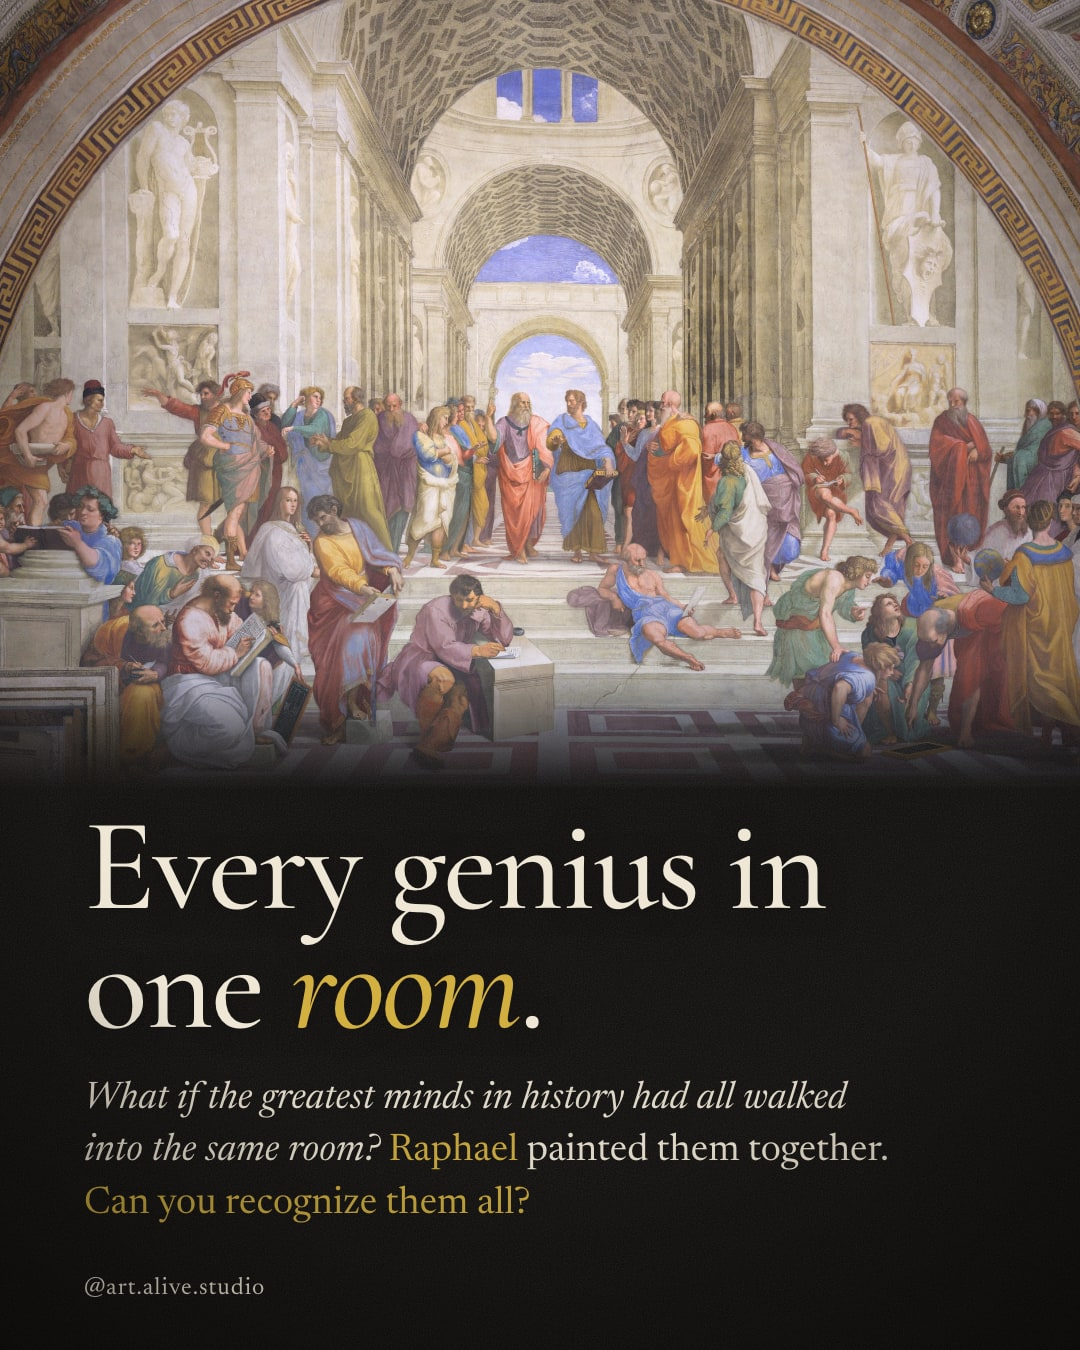
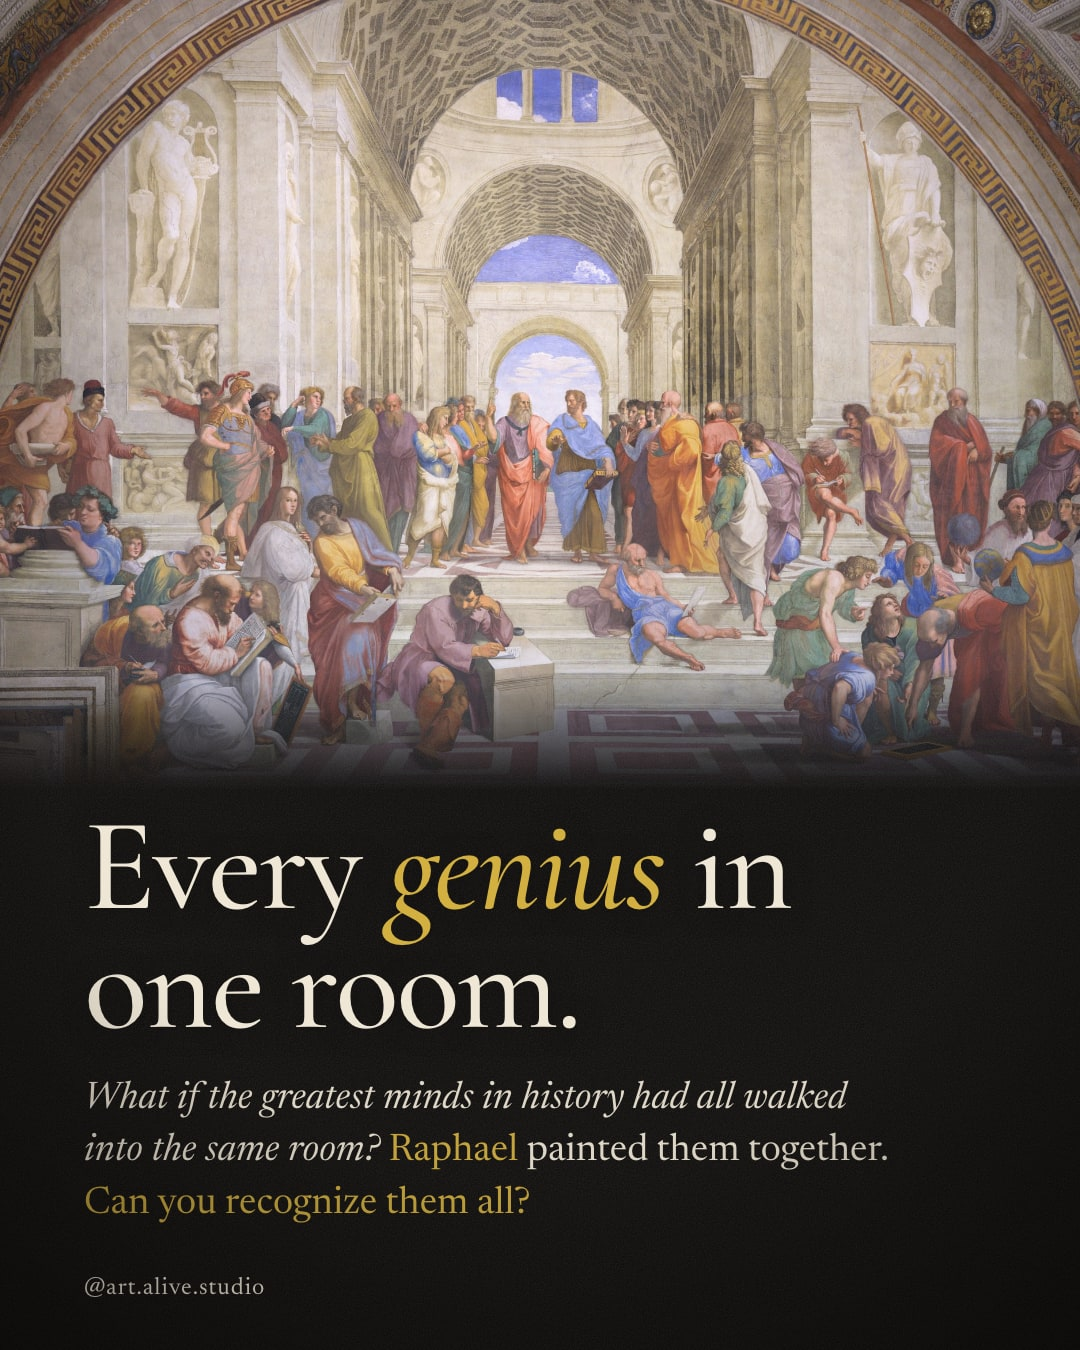
School of Athens cover: 'genius' in gold instead of 'room'

Changed region(s): [[0.275, 0.5911, 0.7639, 0.7778]]

diff --git a/channels/art-history/carousels/06-raphael-school-of-athens/slides.html b/channels/art-history/carousels/06-raphael-school-of-athens/slides.html
@@ -33,7 +33,7 @@
 <section class="slide s-cover shade-bottom">
   <img class="bleed" src="img/who_cover.jpg">
   <div class="block bottom">
-    <h1 class="h-xl">Every genius in one <em>room</em>.</h1>
+    <h1 class="h-xl">Every <em>genius</em> in one room.</h1>
     <p class="lede"><i>What if the greatest minds in history had all walked into the same room?</i> <span class="y">Raphael</span> painted them together. <span class="y">Can you recognize them all?</span></p>
   </div>
 </section>
